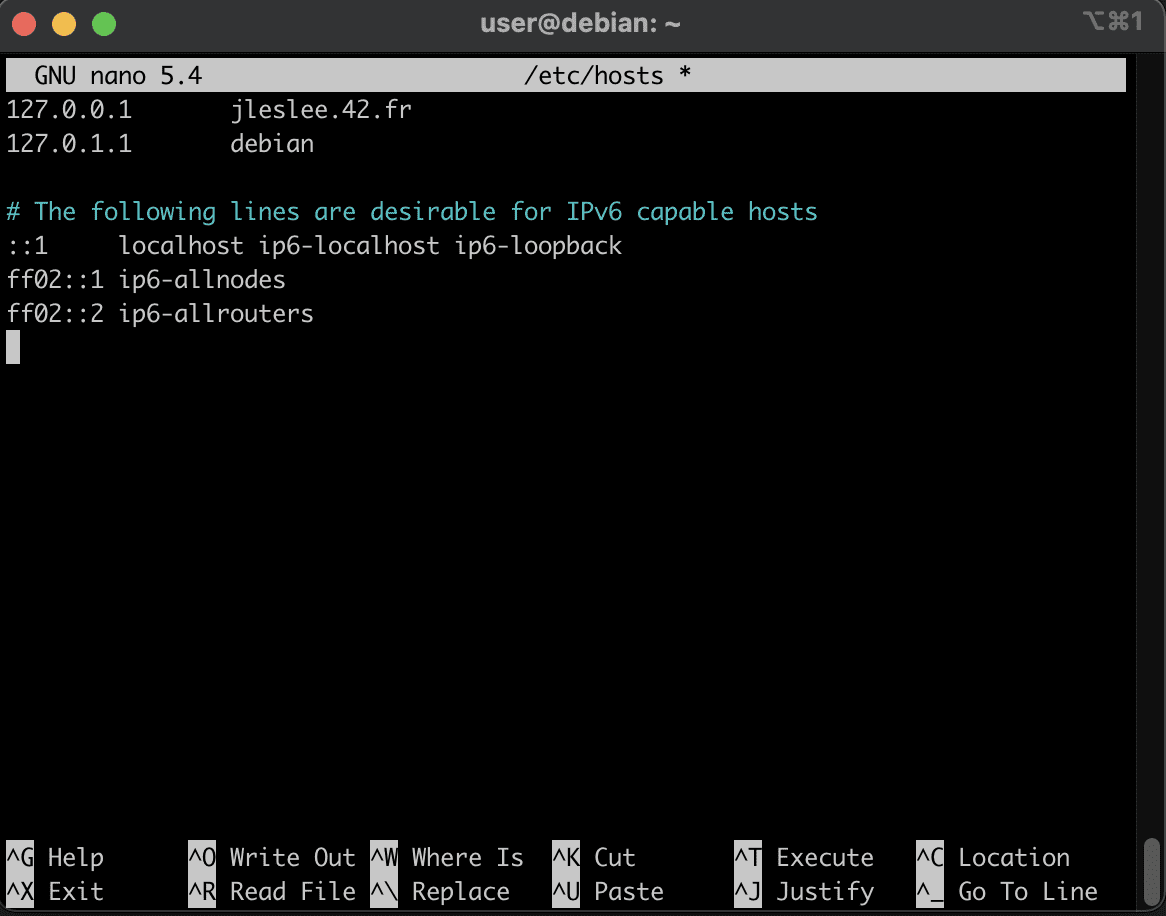
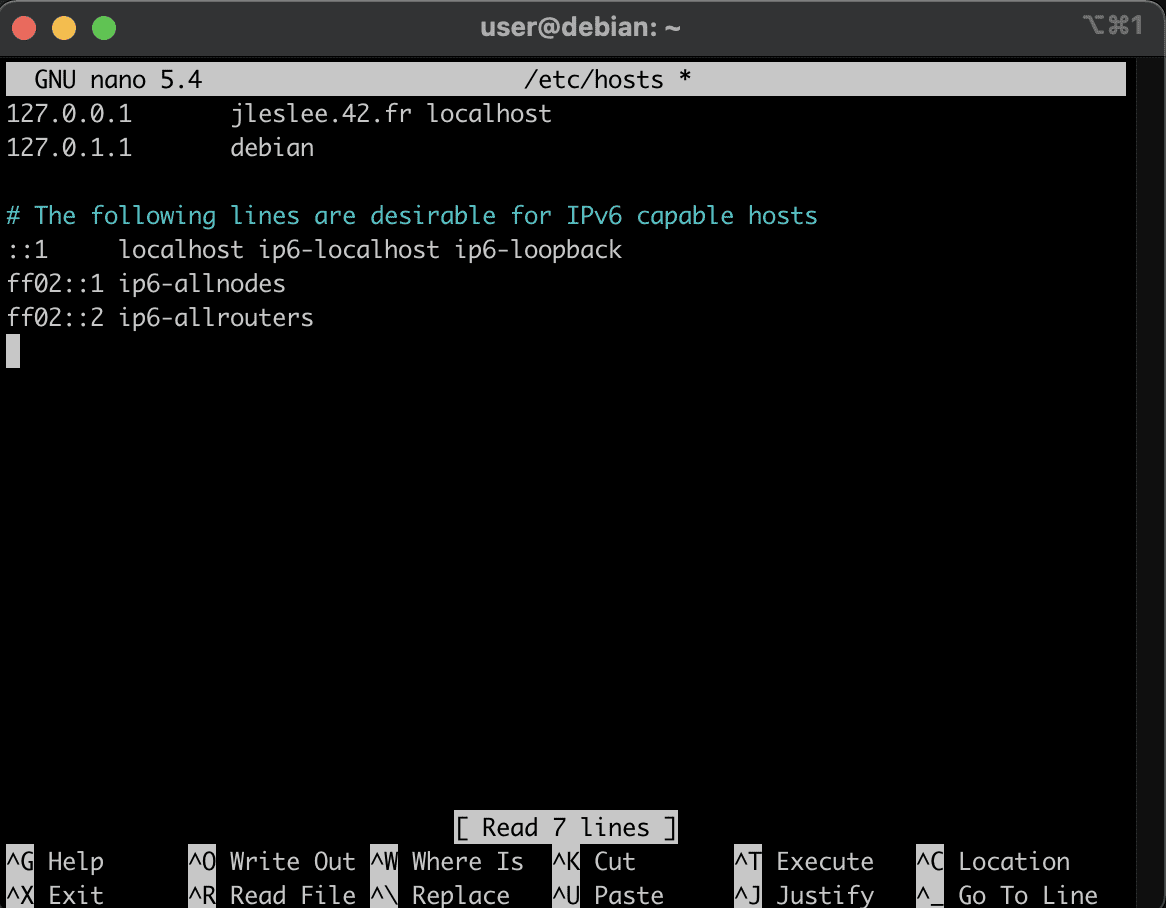
crt

Changed region(s): [[0.0, 0.0, 1.0, 0.185], [0.0, 0.8943, 1.0, 1.0], [0.0, 0.2159, 0.7101, 0.37]]

diff --git a/05_INSTALL_CERTIFICATE.md b/05_INSTALL_CERTIFICATE.md
@@ -46,7 +46,7 @@
 
 ```sudo nano /etc/hosts```
 
-И заменяем ```localhost``` на наш ник.42.fr, в моём случае это ```jleslee.42.fr```:
+И добавляем к ```localhost``` наш ник.42.fr, в моём случае это ```jleslee.42.fr``` (порядок не важен):
 
 ![установка сертификата](media/install_certificate/step_1.png)
 
@@ -82,13 +82,13 @@
 
 Как видим, наш сертификат действует более двух лет, и это хорошо.
 
-Единственное, что нужно нам для полного счастья - поменять расширения файлов, чтобы сервер nginx их правильно читал. Используем mv:
+Единственное, что нужно нам для полного счастья - поменять расширения файлов, чтобы сервер nginx их правильно читал. Используем mv, не забывая сменить jleslee на свой ник:
 
 ```mv jleslee.42.fr-key.pem jleslee.42.fr.key```
 
 ```mv jleslee.42.fr.pem jleslee.42.fr.crt```
 
-И мы имеем в итоге ключ с сертификатом ужных нам форматов.
+И мы имеем в итоге ключ с сертификатом нужных нам форматов.
 
 ## Шаг 4. Перенастройка контейнера для https
 
@@ -98,11 +98,46 @@
 
 ```nano ~/simple_docker_nginx_html/nginx/conf.d/nginx.conf```
 
-Стираем всё содержимое файла и копируем туда код nginx.conf из корня данного репозитория с инструкциями:
+Стираем всё содержимое файла и копируем туда следующий код:
+
+```
+server {
+    # Слушаем порт http
+    listen      80;
+    # Слушаем порт https - ssl
+    listen      443 ssl;
+    # Задаём домен, на котором мы будем работать:
+    server_name  jleslee.42.fr www.jleslee.42.fr;
+    # Указываем корневую директорию проекта:
+    root    /var/www/public/html;
+    # Следующая секция закомментирована для
+    # нормальной работы с хостовой машины.
+    # Делаем перенаправление с http на https:
+    #if ($scheme = 'http') {
+    #    return 301 https://jleslee.42.fr$request_uri;
+    #}
+    # Указываем путь к сертификату и ключу:
+    ssl_certificate     /etc/nginx/ssl/jleslee.42.fr.crt;
+    ssl_certificate_key /etc/nginx/ssl/jleslee.42.fr.key;
+    # Указываем поддерживаемые протоколы tls:
+    ssl_protocols       TLSv1 TLSv1.1 TLSv1.2;
+    # Указываем опции кэширования и таймауты:
+    ssl_session_cache shared:SSL:10m;
+    ssl_session_timeout 10m;
+    keepalive_timeout 70;
+    # Говорим серверу, файл с каким расширением
+    # нужно искать в нашей корневой папке (root)
+    location / {
+        try_files $uri /index.html;
+    }
+}
+```
+
+Мы можем убедиться, что кириллические комментарии после копипаста сохраняются в неверной кодировки, однако на работу нашего проекта это никак не повлияет:
 
 ![установка сертификата](media/install_certificate/step_4.png)
 
-Обязательно поменяем в пяти местах jleslee на свой ник. Теперь нам нужно перейти в папку тестового проекта и остановить контейнер:
+Обязательно поменяем в пяти местах jleslee на свой ник! Теперь нам нужно перейти в папку тестового проекта и остановить контейнер:
 
 ```cd ~/simple_docker_nginx_html/ && docker-compose down```
 
@@ -110,15 +145,15 @@
 
 ```nano docker-compose.yml```
 
-В раздел volumes добавляем ещё один вольюм с нашими ключами:
+В раздел volumes добавляем ещё один раздел с нашими ключами:
 
-- ./nginx/ssl:/home/user/project/srcs/requirements/tools, где user - имя нашего пользователя.
+```- ./nginx/ssl:/home/user/project/srcs/requirements/tools, где user - имя нашего пользователя.```
 
 В общем, позаботимся о том, чтобы пути к сертификатам были прописаны правильно, а так же откроем порт 443 в разделе ports:
 
 ![установка сертификата](media/install_certificate/step_5.png)
 
-## Шаг 5. Запуск проекта на https
+## Шаг 5. Запуск проекта на https в GUI
 
 Теперь вновь запустим наш докер командой
 
@@ -135,6 +170,18 @@
 Теперь наш браузер доверяет созданному нами сертификату и наш сайт загружается по ssl. Однако всё равно не считает соединение безопасным. Браузер нужно понять и простить, а нам как веб-разработчику этого вполне хватит для нашего проекта.
 
 ![установка сертификата](media/install_certificate/step_8.png)
+
+## Шаг 6. Запуск проекта на https на хосте
+
+На хостовой машине наш проект будет доступен по адресу ```127.0.0.1``` до тех пор, пока секция редиректов в конфиге nginx закомментирована. Если раскомментировать её, нас будет редиректить на 42.fr, а школьный мак не знает такого сайта.
+
+Здесь тоже будут жалобы на самоподписной ssl. Понять, простить, наджать "дополнительно" -> "перейти на сайт".
+
+![установка сертификата](media/install_certificate/step_9.png)
+
+Мы увидим уже привычный "небезопасный" https:
+
+![установка сертификата](media/install_certificate/step_10.png)
 
 На этом мы можем выключать контейнер командой
 
